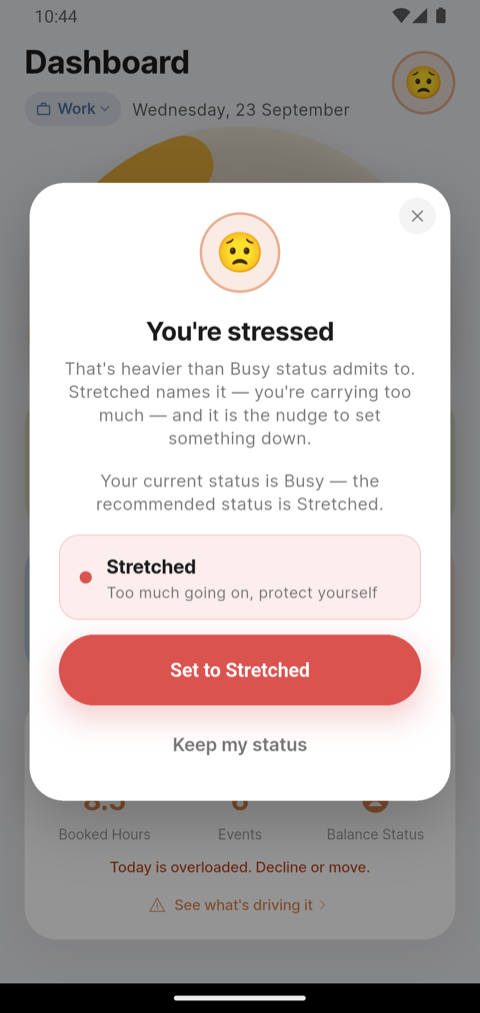
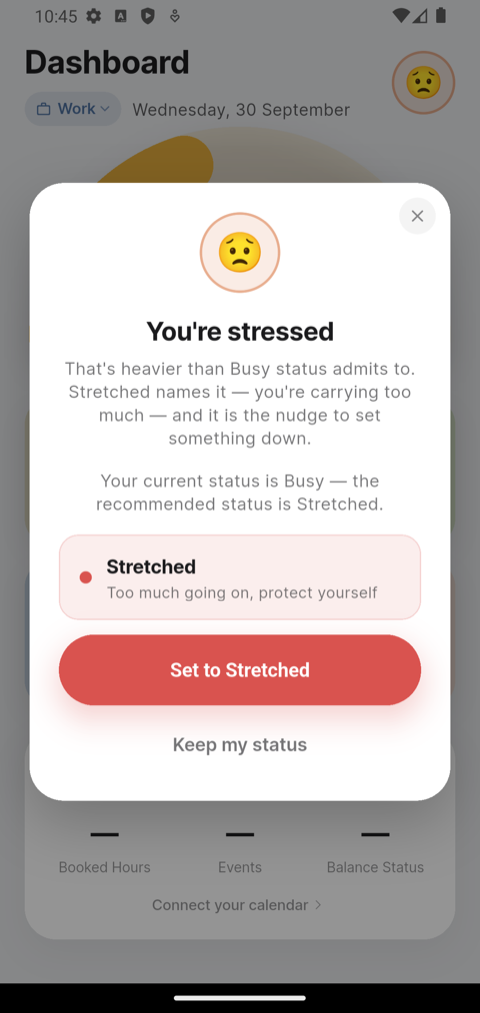
reminder_update

diff --git a/tutorial/index.html b/tutorial/index.html
@@ -93,14 +93,6 @@
     aspect-ratio:9/16;border:2px dashed var(--line);border-radius:var(--radius);
     background:var(--card);color:var(--muted);font-size:.82rem;padding:18px;
   }
-  .whatsnew{
-    background:var(--card);border:1px solid var(--line);border-radius:12px;
-    padding:20px 24px;margin:26px 0 0;max-width:72ch;
-  }
-  .whatsnew h3{margin:0 0 8px;color:var(--ink);font-size:1.02rem}
-  .whatsnew ul{margin:8px 0 0;padding-left:20px}
-  .whatsnew li{margin:6px 0}
-  .whatsnew a{color:var(--accent);font-weight:600}
   .pillars{
     background:var(--card);border:2px solid var(--accent);border-radius:18px;
     padding:4px 28px 8px;margin:34px 0 10px;box-shadow:0 4px 18px rgba(47,107,96,.14);
@@ -143,47 +135,6 @@
     fortnight of history, so every panel has something in it. Your own app will look
     emptier for the first few days — that is expected, and Insights says so until it
     has enough to go on.
-  </div>
-  <div class="whatsnew">
-    <h3>What is new in version 1.1.4</h3>
-    <ul>
-      <li><strong>Partly available, at your level</strong> — choose how much you work
-          (20–80%), and BAI measures your days against that; end it early from the
-          Status page; see how it is going in Insights (<a href="#status">Status</a>).</li>
-      <li><strong>New in your calendar</strong> — long events you add are highlighted
-          with plain facts, not judged (<a href="#schedule">Schedule</a>).</li>
-      <li><strong>Alerts open the right page</strong> — tap the 7:00 alert or
-          <em>Now Stretched</em> to see what is driving the day
-          (<a href="#alerts">Alerts</a>).</li>
-      <li><strong>Overloaded days in Insights</strong> — whether you kept Stretched on
-          full days, and whether they felt heavier (<a href="#insights">Insights</a>).</li>
-      <li><strong>Remind me to prepare</strong> — pick an event and get a reminder one to
-          five work days before it, or before every one of a weekly series
-          (<a href="#schedule">Schedule</a>).</li>
-      <li><strong>Mood reminders on the lock screen</strong> — after five work days
-          without a check-in (two with the calendar off) (<a href="#mood">Mood</a>).</li>
-    </ul>
-  </div>
-  <div class="whatsnew">
-    <h3>What is new in version 1.1.1</h3>
-    <ul>
-      <li><strong>Several work blocks in a day</strong> — for split shifts and long days
-          (<a href="#controls">Controls</a>).</li>
-      <li><strong>By Focus</strong> on iPhone and <strong>By Do Not Disturb</strong> on
-          Android, as a way to switch between Work and Life
-          (<a href="#controls">Controls</a>).</li>
-      <li><strong>Don't count this event</strong> — set aside private or irrelevant
-          events so they stop filling your day (<a href="#schedule">Schedule</a>).</li>
-      <li><strong>Partly available</strong> — a sixth status for an agreed reduced
-          arrangement (<a href="#status">Status</a>).</li>
-      <li><strong>The capacity alert</strong> — what to do when a day is overloaded, and
-          how the app tells you (<a href="#alerts">Alerts</a>).</li>
-      <li><strong>Plainer Insights</strong> — mood is now described in words rather than
-          numbers (<a href="#insights">Insights</a>).</li>
-      <li><strong>Switching by hand, with a timer</strong> — with the schedule off,
-          choosing Work asks how long, and switches you back to Life on its own when the
-          time is up (<a href="#controls">Controls</a>).</li>
-    </ul>
   </div>
   <nav>
     <ol>
@@ -238,7 +189,9 @@
       </p>
     </div>
     <figure>
-      <img src="img/status-popup-mood.png" alt="The status pop-up for Stretched reached through a mood check-in, with advice reading Tell someone how you feel and Ease the pressure" onerror="shotMissing(this)">
+      <img src="img/mood-status-match.png" alt="After checking in as Stressed, BAI offers Set to Stretched, or Keep my status" onerror="shotMissing(this)">
+      <figcaption>Check in, and accept the match</figcaption>
+      <img style="margin-top:18px" src="img/status-popup-mood.png" alt="The status pop-up for Stretched reached through a mood check-in, with advice reading Tell someone how you feel and Ease the pressure" onerror="shotMissing(this)">
       <figcaption>The arc's advice, tailored to how you feel</figcaption>
     </figure>
   </div>
